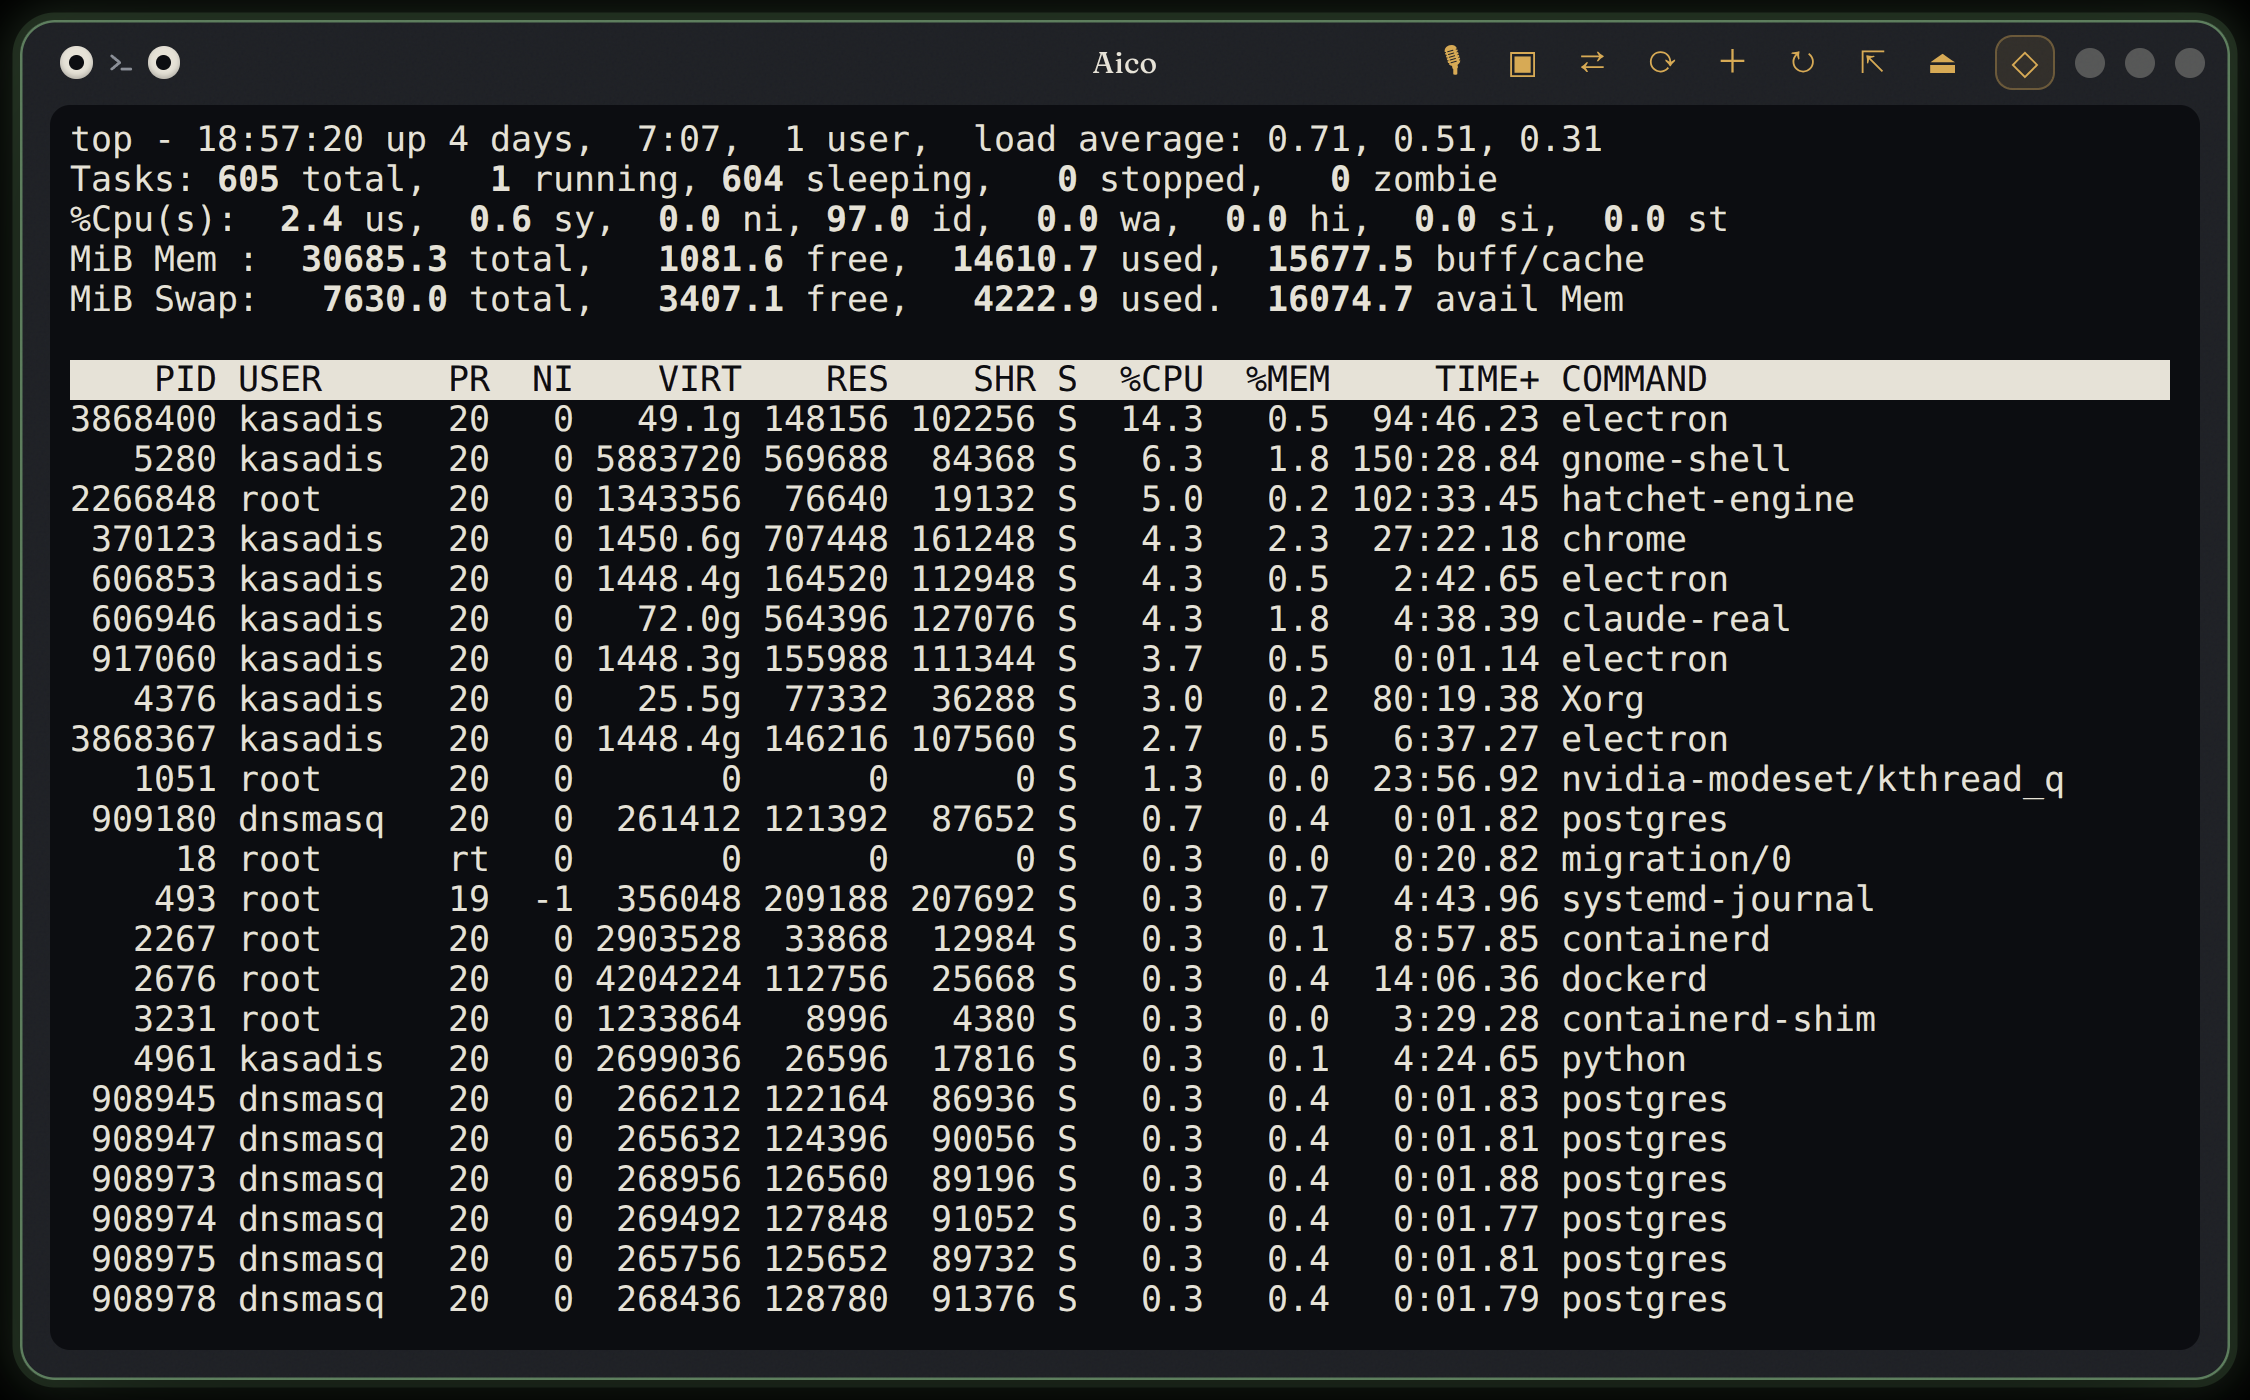
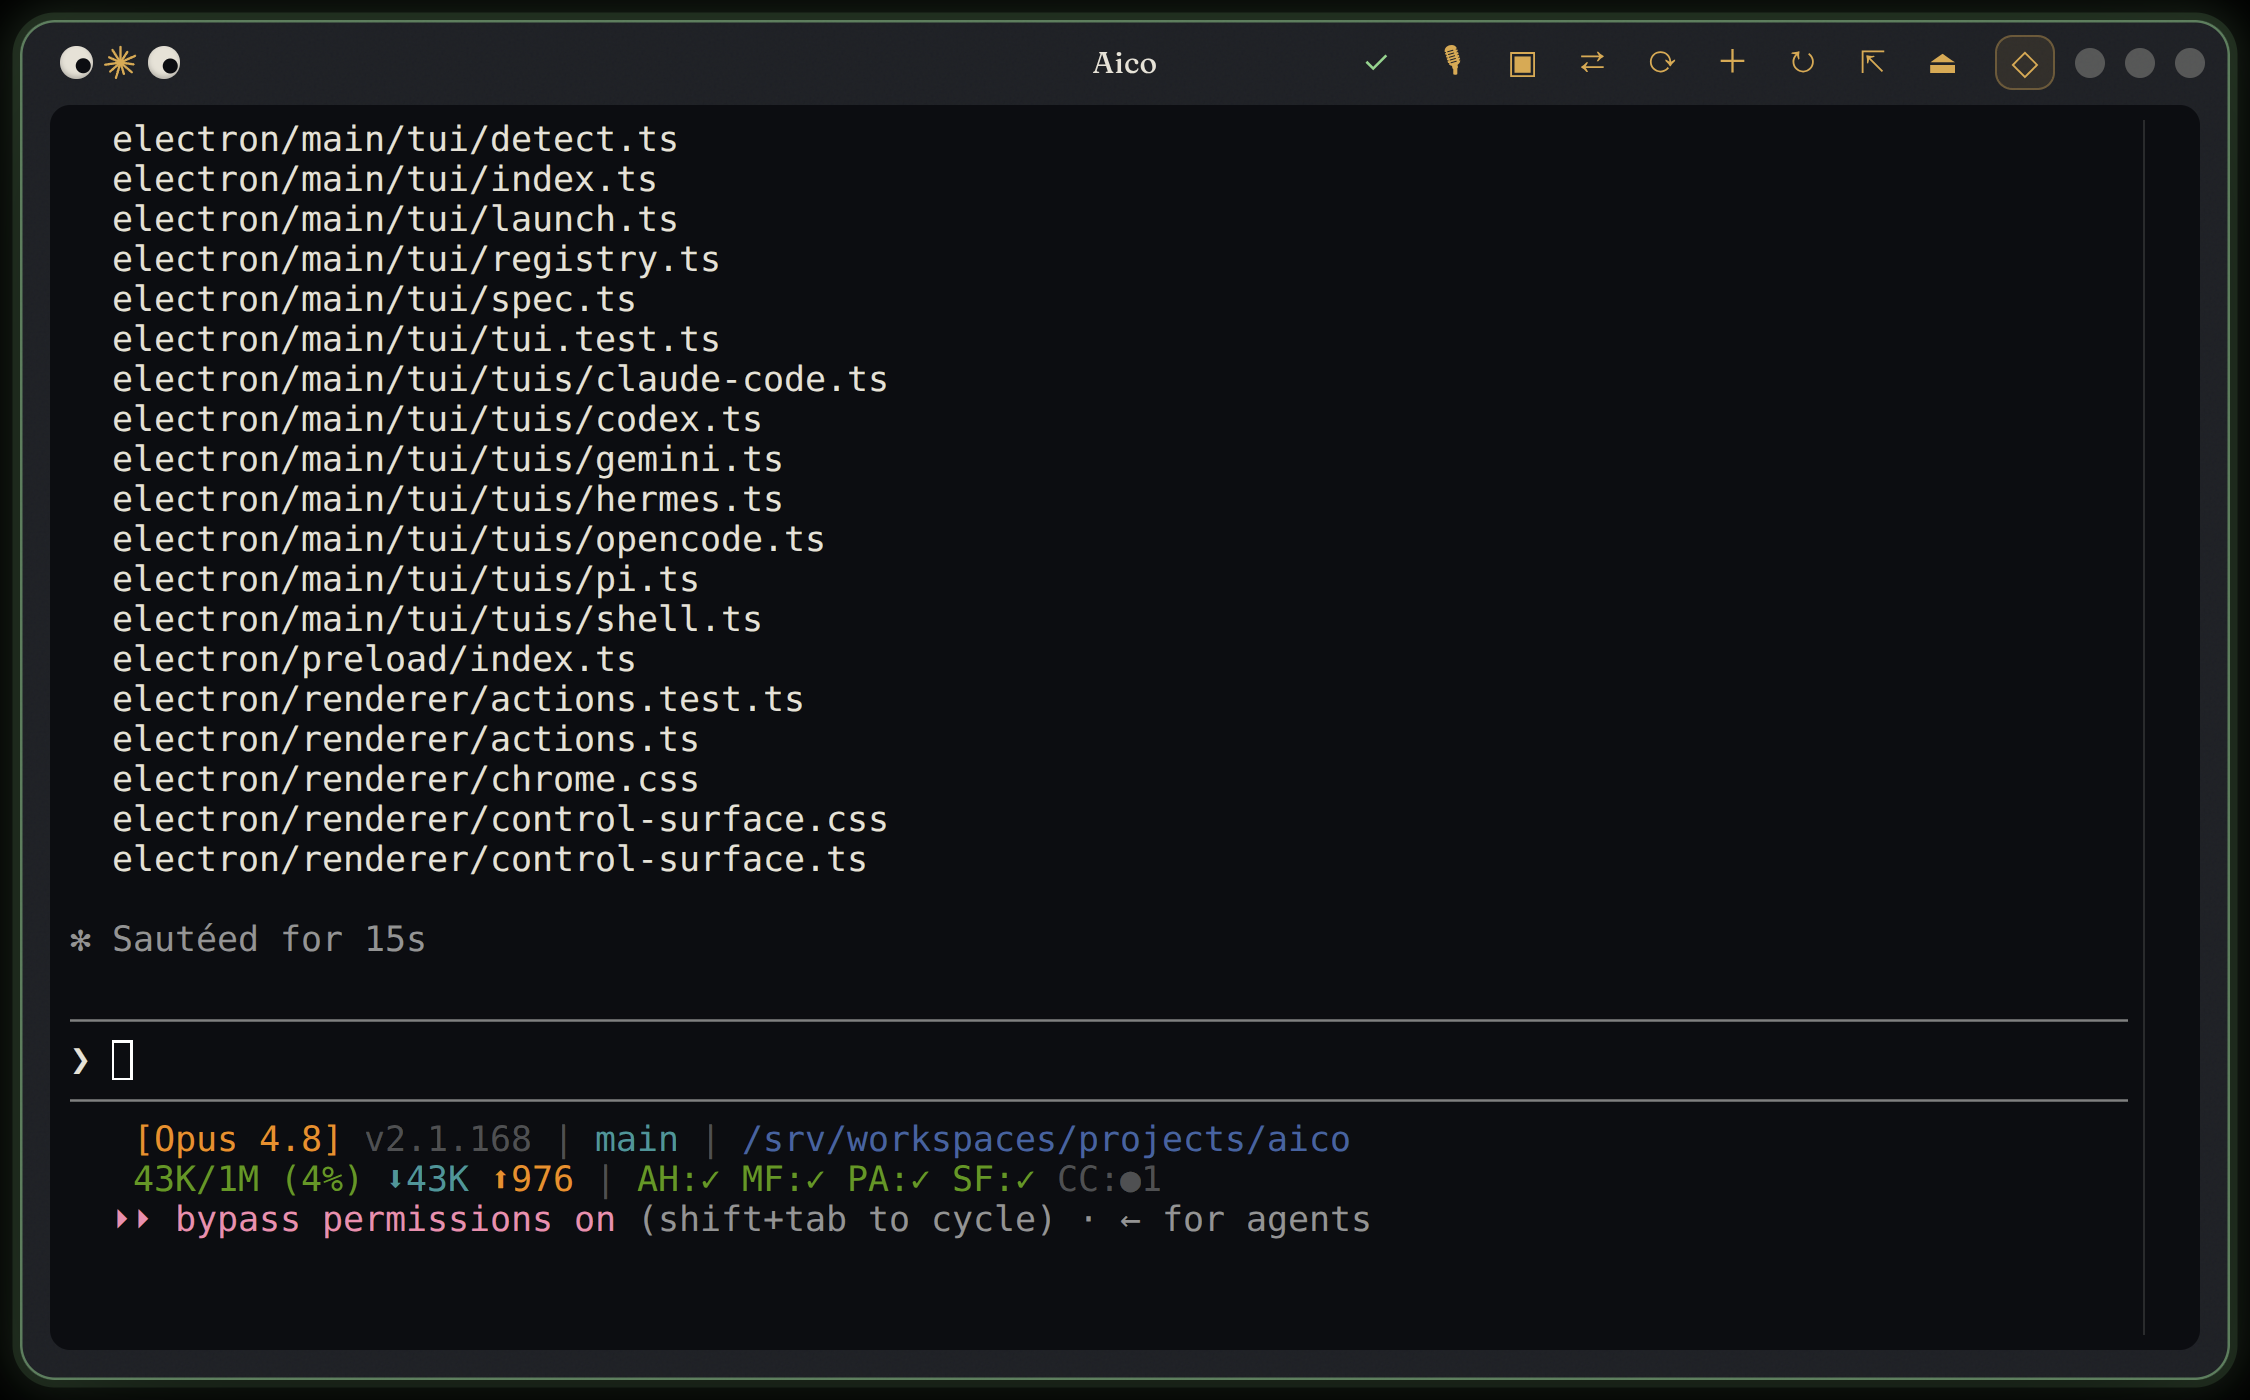
Update aico hero to a Claude Code session

Changed region(s): [[0.0311, 0.0921, 0.9644, 0.9521], [0.0311, 0.0307, 0.0622, 0.0614]]

diff --git a/README.md b/README.md
@@ -56,7 +56,7 @@ Public repositories spanning AI automation, security automation, agentic develop
 
 [Repository](https://github.com/elias-leslie/aico)
 
-![Aico lantern — a floating terminal widget running a live shell on the Linux desktop](./docs/images/aico-hero.png)
+![Aico lantern — a floating desktop widget running a Claude Code session on Linux](./docs/images/aico-hero.png)
 
 - **Problem:** Terminal AI agents are useful but fragmented across shells, browser context, desktop selection, and project state.
 - **Solution:** A Linux desktop companion with floating widgets, isolated tmux sessions, a local FastAPI sidecar, click-to-context capture, and optional browser/voice integrations.

diff --git a/docs/index.md b/docs/index.md
@@ -61,7 +61,7 @@ Public repositories spanning AI automation, security automation, agentic develop
 
 [Repository](https://github.com/elias-leslie/aico)
 
-![Aico lantern — a floating terminal widget running a live shell on the Linux desktop](./images/aico-hero.png)
+![Aico lantern — a floating desktop widget running a Claude Code session on Linux](./images/aico-hero.png)
 
 - **Problem:** Terminal AI agents are useful but fragmented across shells, browser context, desktop selection, and project state.
 - **Solution:** A Linux desktop companion with floating widgets, isolated tmux sessions, a local FastAPI sidecar, click-to-context capture, and optional browser/voice integrations.